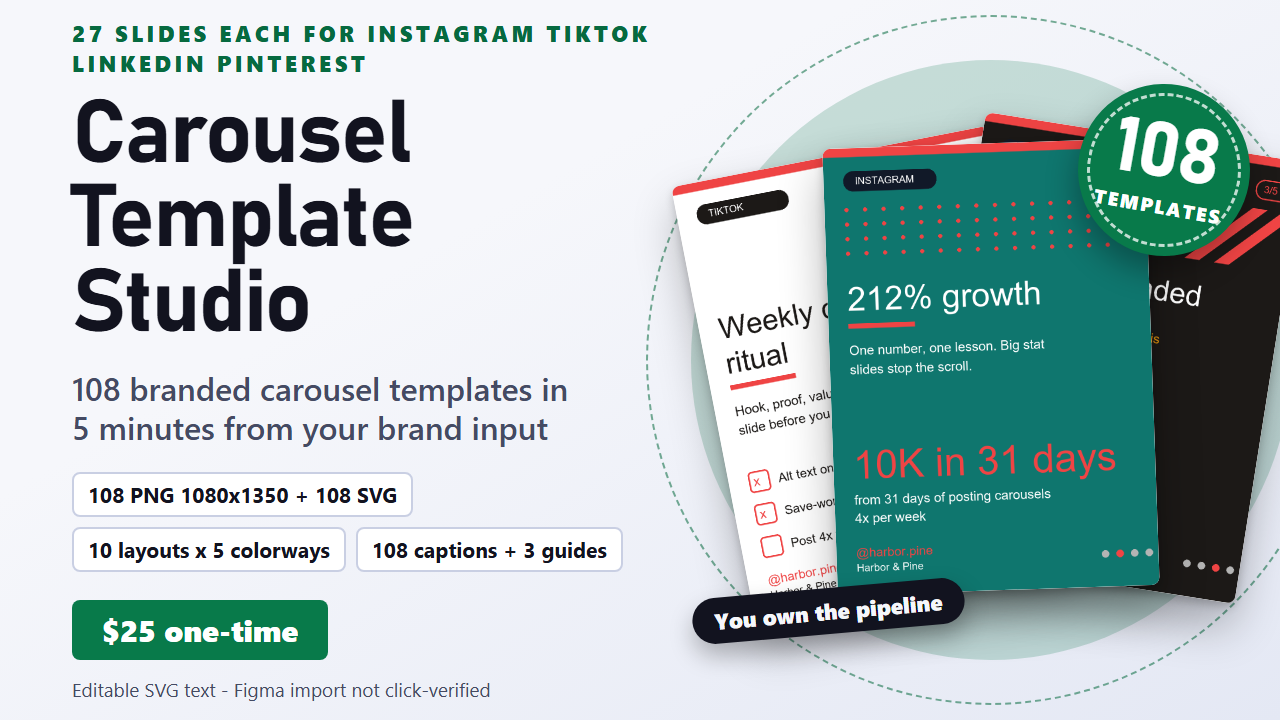
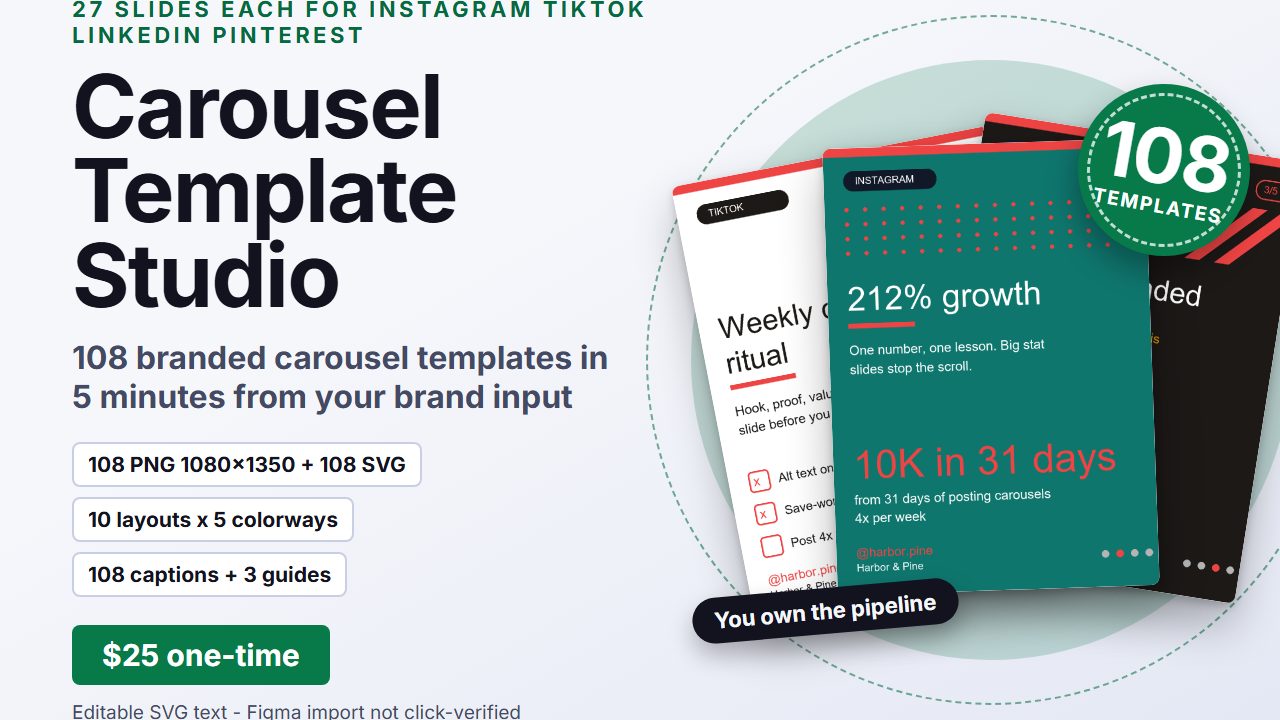
judge O-052 PASS re-render (Inter shelf, both sizes, honest-price beats)
Proof: node tools/orders-check.mjs --built O-052 BUILT PASS 16/16; node tools/orders-check.mjs --verdict O-052 PASS (BEATS 17.6px vs 3.6px stale-false, PICTURE 3 real slides, FACTS itch.md, FIT whole, LANE full path); judge SHIP 10/10; node sprint/check.mjs RESULT PASS 21/0/0.

Changed region(s): [[0.0312, 0.0, 0.5, 1.0], [0.8438, 0.1528, 0.9688, 0.3056], [0.5625, 0.7944, 0.75, 0.8861]]

diff --git a/designs/O-052/tokens.css b/designs/O-052/tokens.css
@@ -1,4 +1,7 @@
 /* designs/O-052/tokens.css: O-052 Carousel Template Studio (clean-professional). All page color comes from these vars. */
+/* Embedded OFL fonts (tools/cover.mjs fonts <id>; woff2 bytes in assets/fonts/, no system dependency). */
+@font-face { font-family: "Inter"; font-style: normal; font-display: swap; font-weight: 400; src: url(assets/fonts/inter-latin-400-normal.woff2) format("woff2"); }
+@font-face { font-family: "Inter"; font-style: normal; font-display: swap; font-weight: 700; src: url(assets/fonts/inter-latin-700-normal.woff2) format("woff2"); }
 :root {
   --bg: #f6f7fb;
   --bg-2: #e4e8f4;
@@ -10,8 +13,8 @@
   --chip-bg: #ffffff;
   --chip-ink: #12131f;
   --chip-line: #c9cfe3;
-  --font-display: Bahnschrift, 'Segoe UI', Arial, sans-serif;
-  --font-body: 'Segoe UI', Verdana, Arial, sans-serif;
+  --font-display: Inter, Arial, sans-serif;
+  --font-body: Inter, Verdana, Arial, sans-serif;
   --font-mono: Consolas, 'Courier New', monospace;
   --title-px: 88px;
   --title-px-card: 50px;

diff --git a/designs/O-052/DELIVERY.md b/designs/O-052/DELIVERY.md
@@ -1,7 +1,7 @@
 # DELIVERY O-052: cover:itch/carousel-template-studio for factory
 1. Landing in factory: `products/social-media-carousel/carousel-template-studio/covers/from-design-studio/O-052/` (copy this whole folder; never edit a file outside from-design-studio/).
 2. `out-630x500.png` = the itch.io cover image (630x500); `out.png` 1280x720 = the 16:9 version for a banner or screenshot slot; `thumb-256.png` = readability proof at 256 px.
-3. Source: `page.html` + `tokens.css` + `assets/` (copies of the product's own preview/ pictures); `assets.json` lists each picture.
+3. Source: `page.html` + `tokens.css` + `assets/` (copies of the product's own preview/ pictures); `assets.json` lists each picture. Type: embedded OFL Inter 400+700 (`assets/fonts/`, no system dependency).
 4. Gates: `brief.json`, `design-audit.json` (audit PASS), `DESIGN-REVIEW.md` (SHIP), `VERDICT.md` (five checks), `compare.png` (ours vs the cover to beat).
 5. Cover to beat: `C:/Users/me/Desktop/autonomous-factory/products/social-media-carousel/carousel-template-studio/preview/cover-od-1280x720.png`; facts only from `C:/Users/me/Desktop/autonomous-factory/products/social-media-carousel/carousel-template-studio/listing/itch.md`.
 6. Adopt: commit these bytes in factory, then set the itch.io cover image to `out-630x500.png` (banner or screenshot slot: `out.png`).

diff --git a/designs/O-052/VERDICT.md b/designs/O-052/VERDICT.md
@@ -1,6 +1,6 @@
 VERDICT: PASS O-052
-BEATS: pass ours 17.6px clear+honest vs theirs ~28px big-but-false  stale
-PICTURE: pass 3 real product slides via assets.json byte copies
-FACTS: pass all numbers from itch.md  108/27/10x5/108+3 honest Figma fine no engines
-FIT: pass both sizes whole title 17.6/20.3px over 12px
-LANE: pass DELIVERY.md names cover to beat + full landing path
+BEATS: ours 17.6px clear+honest vs theirs ~28px big-but-stale-FALSE dollar39
+PICTURE: 3 real slides byte-copies OK
+FACTS: all itch.md, dollar25 honest fine, no engines
+FIT: both whole 17.6/20.3px over 12px
+LANE: cover named + full landing path

diff --git a/designs/O-052/DESIGN-REVIEW.md b/designs/O-052/DESIGN-REVIEW.md
@@ -6,7 +6,7 @@ Sample: C:\Users\me\Desktop\design-studio\designs\O-052\brief.json
 ## Score
 
 - [x] brief-complete: Carousel Template Studio 1280x720
-- [x] render-exists: 1280x720 345570B
+- [x] render-exists: 1280x720 362869B
 - [x] audit-green: fresh auditBrief PASS
 - [x] contrast-aa: title:17.2, subtitle:8.2, cta:5.4, chip:18.4, kicker:6.2
 - [x] thumbnail-legible: 17.6px at 256px (floor 12px), pixels in thumb-256.png 256x144 — human verdict: title reads at listing size
